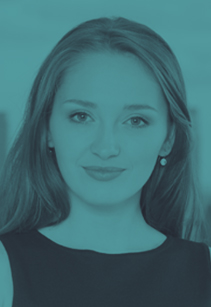
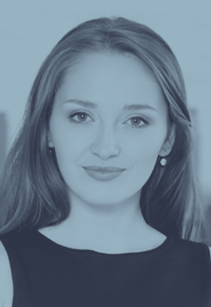
saving before trying to fix this contact section

diff --git a/resources/style.css b/resources/style.css
@@ -344,7 +344,7 @@ nav {
 }
 
 .bold-blue {
-    color:#4d515f;
+    color:#b6bcd0;
     font-size:24px;
     font-family: 'Gentium Book Basic', serif;
     float:left;
@@ -398,8 +398,8 @@ nav {
 }
 
 #slide-2 .row {
-    margin-top:220px;
-
+    margin-top:100px;
+    margin-bottom:100px;
 }
 
 #slide-2 .bold-white {
@@ -564,7 +564,10 @@ nav {
     line-height:48px;
     margin-bottom: 30px;
 }
-
+#slide-4 .bold-white {
+    line-height: 48px;
+    margin-bottom: 30px;
+}
 
 .cont-warn p {
     text-align:right;
@@ -960,9 +963,10 @@ nav {
 
     }
 
-    #slide-2 .row {
+    #slide-2 .row, #slide-3 .row, #slide-5 .row, #slide-4 .row,  {
         margin-top:100px;
     }
+
     #slide-2 .row .nopad {
         padding-left:30px;
     }
@@ -976,10 +980,6 @@ nav {
         left: 5px;
     }
 
-
-    #slide-3 .row {
-        margin-top:157px !important;
-    }
 
     .mt100 {
         margin-top: 75px !important;
@@ -1025,16 +1025,8 @@ nav {
         margin-top: 8px;
     }
 
-    #slide-6 {
-        min-height:800px !important;
-    }
-
     .upper .bold-white-xsmall {
         display:none;
-    }
-
-    #slide-4 .row {
-        margin-top:70px;
     }
 
 
@@ -1060,6 +1052,7 @@ nav {
     .menu{
         width:35%;
     }
+    .slide {min-height:850px;}
 }
 
 @media screen and (max-width:840px) {
@@ -1112,7 +1105,7 @@ nav {
         min-height: 331px;
     }
     #slide-5 .row {
-        margin-top:15px;
+        margin-top:100px;
     }
 }
 
@@ -1143,6 +1136,10 @@ nav {
         display:none;
         margin:0 auto;
         padding-top:50px;
+    }
+    .cont-warn p {
+    text-align: left;
+    font-style: italic;
     }
 
     .asoc {
@@ -1180,12 +1177,12 @@ nav {
         display:none;
     }
 
-    #slide-1, #slide-3, #slide-5 {
-        background: #539ea2; /* Old browsers */
-        background: -moz-linear-gradient(-45deg, #539ea2 1%, #5694a1 100%); /* FF3.6-15 */
-        background: -webkit-linear-gradient(-45deg, #539ea2 1%,#5694a1 100%); /* Chrome10-25,Safari5.1-6 */
-        background: linear-gradient(135deg, #539ea2 1%,#5694a1 100%); /* W3C, IE10+, FF16+, Chrome26+, Opera12+, Safari7+ */
-        filter: progid:DXImageTransform.Microsoft.gradient( startColorstr='#539ea2', endColorstr='#5694a1',GradientType=1 ); /* IE6-9 */
+    #slide-1, #slide-3, #slide-5, #slide-6 {
+        background: #58707d; /* Old browsers */
+        background: -moz-linear-gradient(-45deg, #58707d 1%, #2b353e 100%); /* FF3.6-15 */
+        background: -webkit-linear-gradient(-45deg, #58707d 1%,#2b353e 100%); /* Chrome10-25,Safari5.1-6 */
+        background: linear-gradient(135deg, #58707d 1%,#2b353e 100%); /* W3C, IE10+, FF16+, Chrome26+, Opera12+, Safari7+ */
+        filter: progid:DXImageTransform.Microsoft.gradient( startColorstr='#58707d', endColorstr='#2b353e',GradientType=1 ); /* IE6-9 */
     }
     .seal{
         text-align: center;
@@ -1205,7 +1202,7 @@ nav {
 
 
 
-    #slide-2, #slide-4, #slide-6 {
+    #slide-2, #slide-4 {
         background: #343844; /* Old browsers */
         background: -moz-linear-gradient(-45deg, #343844 1%, #292d36 100%); /* FF3.6-15 */
         background: -webkit-linear-gradient(-45deg, #343844 1%,#292d36 100%); /* Chrome10-25,Safari5.1-6 */
@@ -1327,10 +1324,10 @@ nav {
     .bold-white {
         font-size: 23px;
         line-height: 24px;
-        margin:10px 35px;
+        margin:10px 35px 10px 0;
         text-align: center;
     }
-    .seal {padding-right: 0px;}
+    .seal {padding: 0px;}
     .bold-blue {
         font-size: 16px;
         line-height: 16px;

diff --git a/index.html b/index.html
@@ -324,6 +324,7 @@
 		            <span class="bold-white">CONTACT US</span>
 		            <span class="bold-white-small">CONTACT DETAILS</span>
 		        </div>
+		        
 		    </div>
 	        <div class="small-12 medium-12 large-9 contacts columns">
 	          	<div class="row">
@@ -363,7 +364,7 @@
 	                </div>
 	            </div>
 	        </div>
-	        <div class="small-12 medium-12 large-3 columns form ">
+	        <div class="small-12 medium-12 large-3 columns form">
 	            <div class="form-fields">
 	                <form action="http://www.ogmilaw.lt/ajaxforms/submit/form_ask_home" id="form_ask_home" method="post" accept-charset="utf-8">
 						<div class="small-12 medium-4 large-12 columns">
